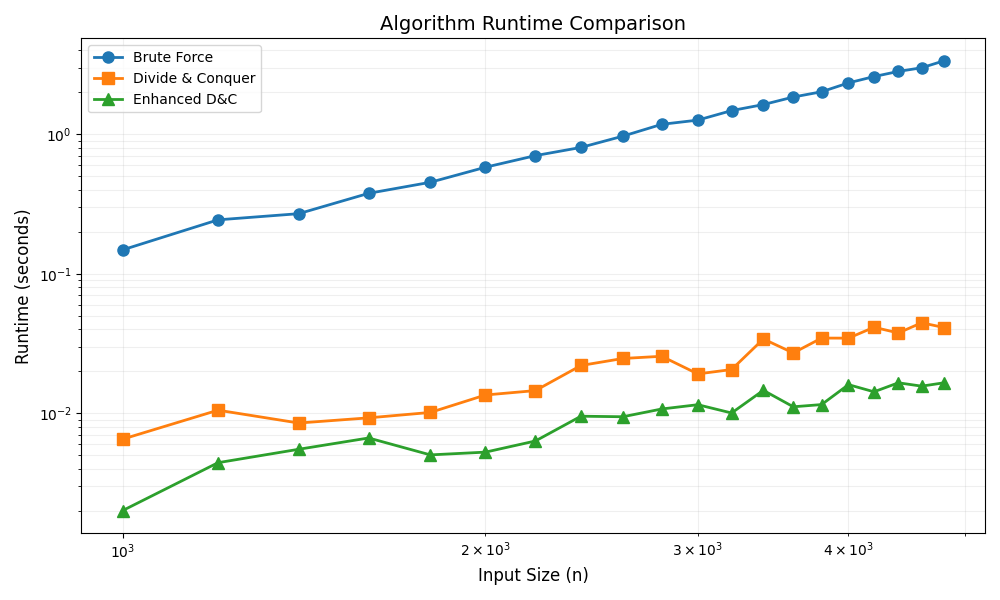
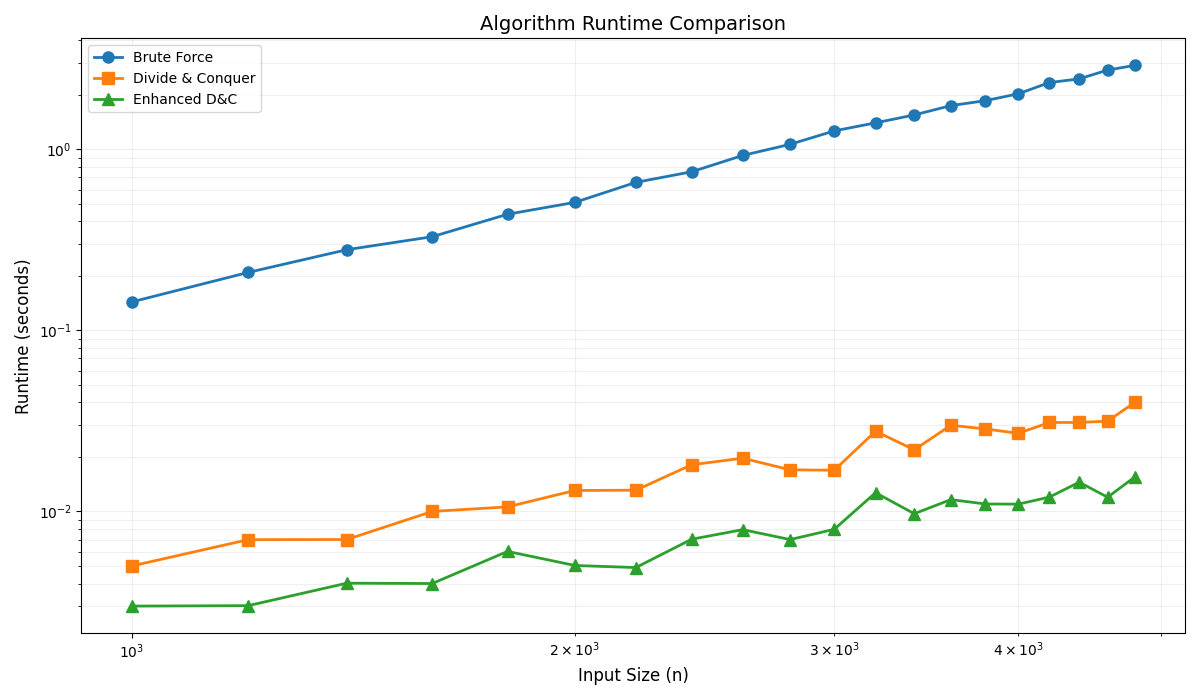
Fix brute force algorithm and update runtime plot
- Modify brute_force.py with partial implementation changes
- Increase runtime plot figure size in test_runtime.py
- Remove commented sorting logic in brute_force.py
- Update runtime comparison plot

diff --git a/brute_force.py b/brute_force.py
@@ -20,6 +20,7 @@ def brute_force_closest_pair(points: list[tuple[float, float]]) -> tuple[float, 
 
     min_dist = float('inf')
     closest_pairs = []
+    #yunhaoj99 改动
     n = len(points)
     for i in range(n):
         for j in range(i+1,n):
@@ -31,13 +32,14 @@ def brute_force_closest_pair(points: list[tuple[float, float]]) -> tuple[float, 
             elif dist == min_dist:
                 closest_pairs.append((points[i], points[j]))
     
-    closest_pairs = sort_pairs(closest_pairs)
+
+    #TODO 
 
     return min_dist, closest_pairs
 
 if __name__ == "__main__":
     try:
-        points = read_input_from_cli()
+        points = read_input_from_cli(
         min_dist, closest_pairs = brute_force_closest_pair(points)
 
         print(f"Minimum Distance: {min_dist}")

diff --git a/test_runtime.py b/test_runtime.py
@@ -13,7 +13,7 @@ def test_algorithm(algo, points, algo_name):
     return end_time - start_time
 
 def plot_runtime_comparison(sizes, times_dict):
-    plt.figure(figsize=(10, 6))
+    plt.figure(figsize=(12, 7))
     
     # Plot for each algorithm
     markers = ['o', 's', '^']  # Different markers for each algorithm
